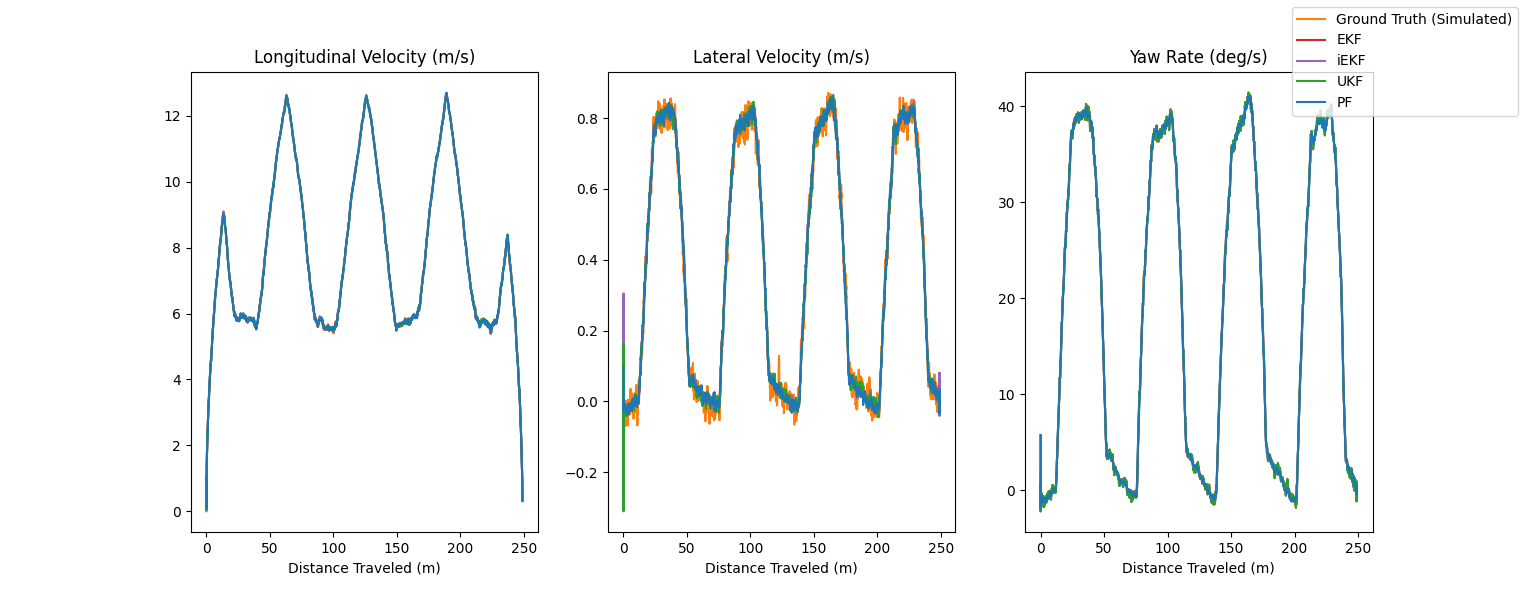
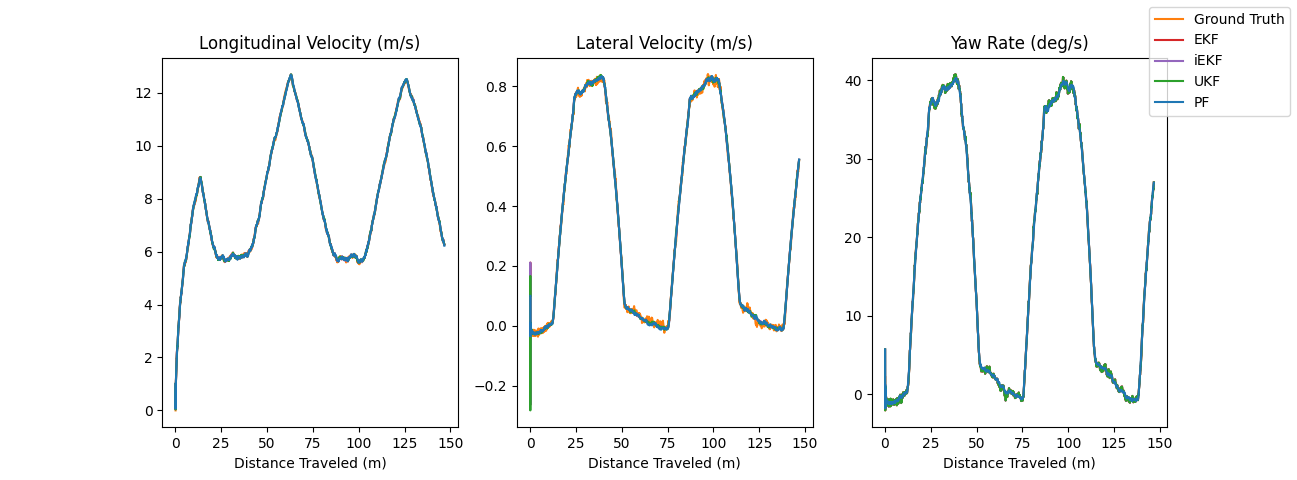
Minor plotting changes

diff --git a/Simulator.py b/Simulator.py
@@ -31,11 +31,11 @@ rtire = SimpleNamespace(**rtire)
 
 # Input type
 #use_data = True
-use_data = False
+use_data = True
 
 #Delay?
 #delay = True
-delay = True
+delay = False
 #assert delay == False or use_data == False
 
 plot_ws = False
@@ -117,7 +117,7 @@ mu.append(   np.array([[1, .1, .1]]).T)
 ekf = ExtendedKalmanFilter(C, Q, R, dt, veh, ftire, rtire)
 iekf = IteratedExtendedKalmanFilter(C, Q, R, dt, veh, ftire, rtire)
 ukf = UnscentedKalmanFilter(C, Q, R, dt, veh, ftire, rtire)
-#pf = ParticleFilter(C, Q, R_pf, dt, veh, ftire, rtire)
+pf = ParticleFilter(C, Q, R_pf, dt, veh, ftire, rtire)
 
 
 
@@ -161,13 +161,13 @@ for i in range(len(t_)-1):
 mu_ekf, Sigma_ekf = ekf.run_filter(mu[0], Sigma[0], Y_, delta_, Fx_, Fxf_, Fxr_, kappa_, delay)
 mu_iekf, Sigma_iekf = iekf.run_filter(mu[0], Sigma[0], Y_, delta_, Fx_, Fxf_, Fxr_, kappa_, delay)
 mu_ukf, Sigma_ukf = ukf.run_filter(mu[0], Sigma[0], Y_, delta_, Fx_, Fxf_, Fxr_, kappa_, delay)
-#mu_pf, Sigma_pf = pf.run_filter(mu[0], Sigma[0], Y_, delta_, Fx_, Fxf_, Fxr_, kappa_, delay)
+mu_pf, Sigma_pf = pf.run_filter(mu[0], Sigma[0], Y_, delta_, Fx_, Fxf_, Fxr_, kappa_, delay)
 
 # Convert mu to list
 Ux_est_ekf, Uy_est_ekf, r_est_ekf = convert_estimation(mu_ekf)
 Ux_est_iekf, Uy_est_iekf, r_est_iekf = convert_estimation(mu_iekf)
 Ux_est_ukf, Uy_est_ukf, r_est_ukf = convert_estimation(mu_ukf)
-#Ux_est_pf, Uy_est_pf, r_est_pf = convert_estimation(mu_pf)
+Ux_est_pf, Uy_est_pf, r_est_pf = convert_estimation(mu_pf)
 
 # Plotting
 
@@ -177,7 +177,7 @@ axs[0].plot( s_, Ux_, 'tab:orange')
 axs[0].plot(s_, Ux_est_ekf, 'tab:red')
 axs[0].plot(s_, Ux_est_iekf, 'tab:purple')
 axs[0].plot(s_, Ux_est_ukf, 'tab:green')
-#axs[0].plot(s_, Ux_est_pf, 'tab:blue')
+axs[0].plot(s_, Ux_est_pf, 'tab:blue')
 #if (use_data and plot_ws):
 #	axs[0, 0].plot(s_[1:], wheelspeed_meas_list, 'tab:red')
 axs[0].set_title('Longitudinal Velocity (m/s)')
@@ -188,7 +188,7 @@ axs[1].plot(s_, Uy_, 'tab:orange')
 axs[1].plot(s_, Uy_est_ekf, 'tab:red')
 axs[1].plot(s_, Uy_est_iekf, 'tab:purple')
 axs[1].plot(s_, Uy_est_ukf, 'tab:green')
-#axs[1].plot(s_, Uy_est_pf, 'tab:blue')
+axs[1].plot(s_, Uy_est_pf, 'tab:blue')
 axs[1].set_title('Lateral Velocity (m/s)')
 axs[1].set_xlabel('Distance Traveled (m)')
 
@@ -196,11 +196,11 @@ axs[1].set_xlabel('Distance Traveled (m)')
 axs[2].plot(s_, [rad2deg(x) for x in r_], 'tab:orange')
 axs[2].plot(s_, [rad2deg(x) for x in r_est_ekf], 'tab:red')
 axs[2].plot(s_, [rad2deg(x) for x in r_est_iekf], 'tab:purple')
-#axs[2].plot(s_, [rad2deg(x) for x in r_est_ukf], 'tab:green')
-#axs[2].plot(s_, [rad2deg(x) for x in r_est_pf], 'tab:blue')
+axs[2].plot(s_, [rad2deg(x) for x in r_est_ukf], 'tab:green')
+axs[2].plot(s_, [rad2deg(x) for x in r_est_pf], 'tab:blue')
 axs[2].set_title('Yaw Rate (deg/s)')
 axs[2].set_xlabel('Distance Traveled (m)')
-fig.legend(['Ground Truth (SIMULATED/DATA)', 'EKF', 'iEKF', 'UKF', 'PF'])
+fig.legend(['Ground Truth', 'EKF', 'iEKF', 'UKF', 'PF'])
 
 #plt.savefig('Allfilters_Simulated.png')
 plt.show()
